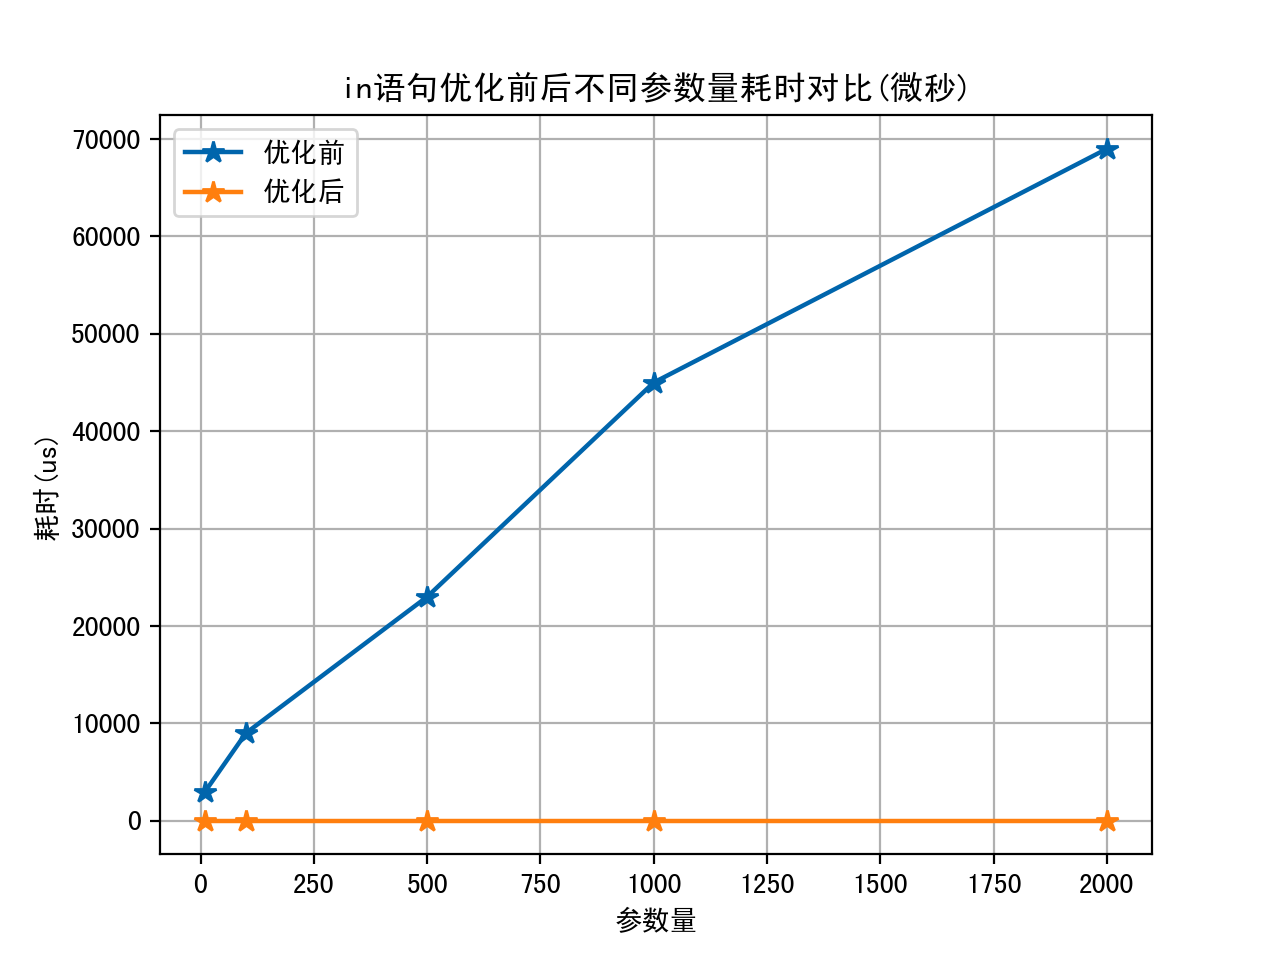
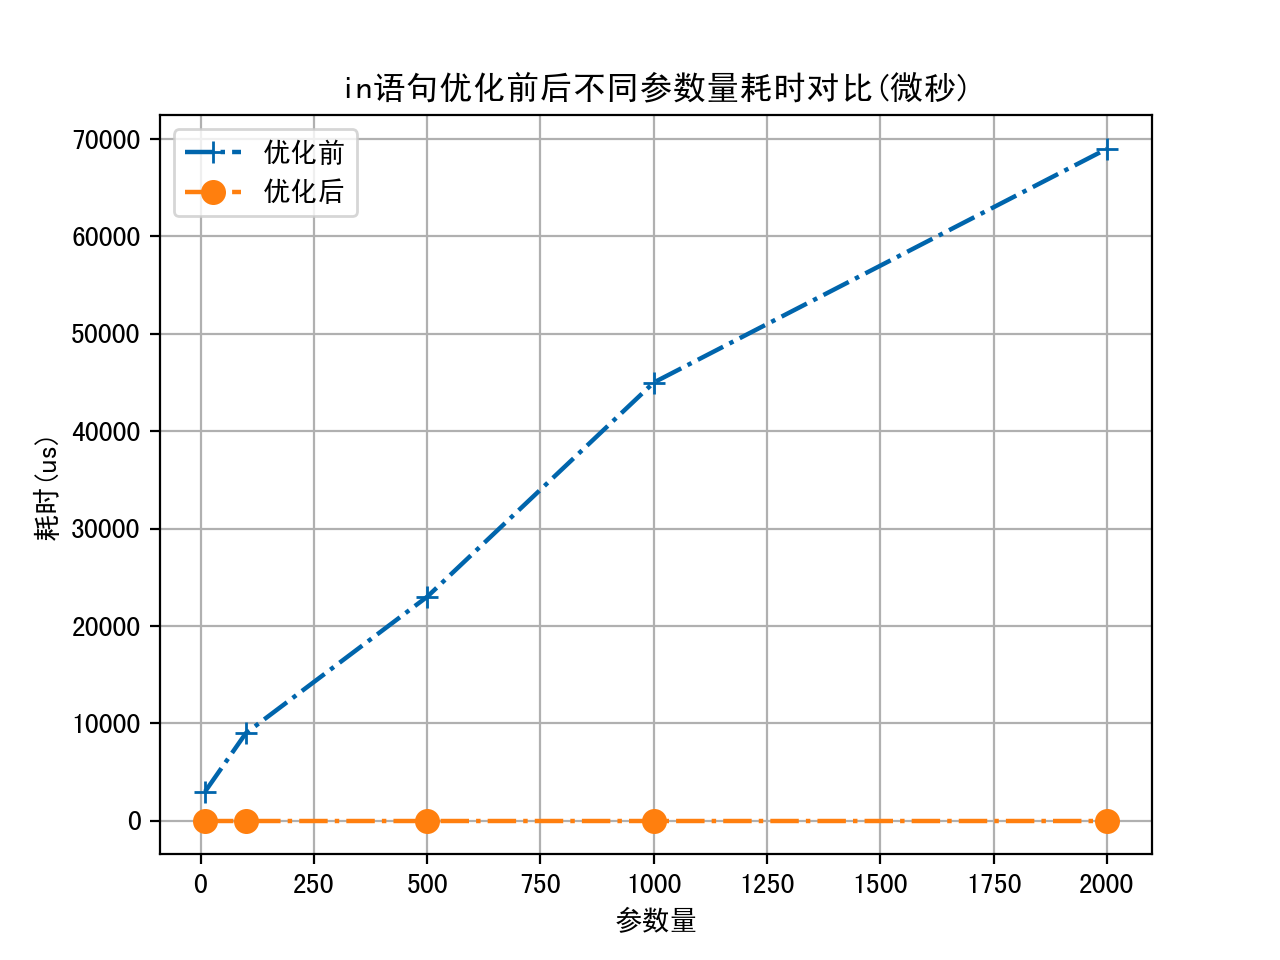
update

diff --git a/pyplot/main.py b/pyplot/main.py
@@ -14,9 +14,11 @@ def plotLineChart1():
     plt.xlabel("参数量")
     plt.ylabel("耗时(us)")
     # color, linestyle, linewidth, marker, markersize, label
-    plt.plot(x, y1, color='#0065AC', ls='-', lw=1.6, marker='*', ms=8, label="优化前")
-    plt.plot(x, y2, color='#FF7F0E', ls='-', lw=1.6, marker='*', ms=8, label="优化后")
+    # ls='-' 实线 ls='--' 虚线 ls='-.' 点划线 ls=':' 点虚线
+    plt.plot(x, y1, color='#0065AC', ls='-.', lw=1.6, marker='*', ms=8, label="优化前")
+    plt.plot(x, y2, color='#FF7F0E', ls='-.', lw=1.6, marker='*', ms=8, label="优化后")
     plt.grid()
+    # 线的标签
     plt.legend(loc='upper left')
     # 默认的像素：[6.0,4.0]，分辨率为100，图片尺寸为 600*400
     # 指定dpi=200，图片尺寸为 1200*800
